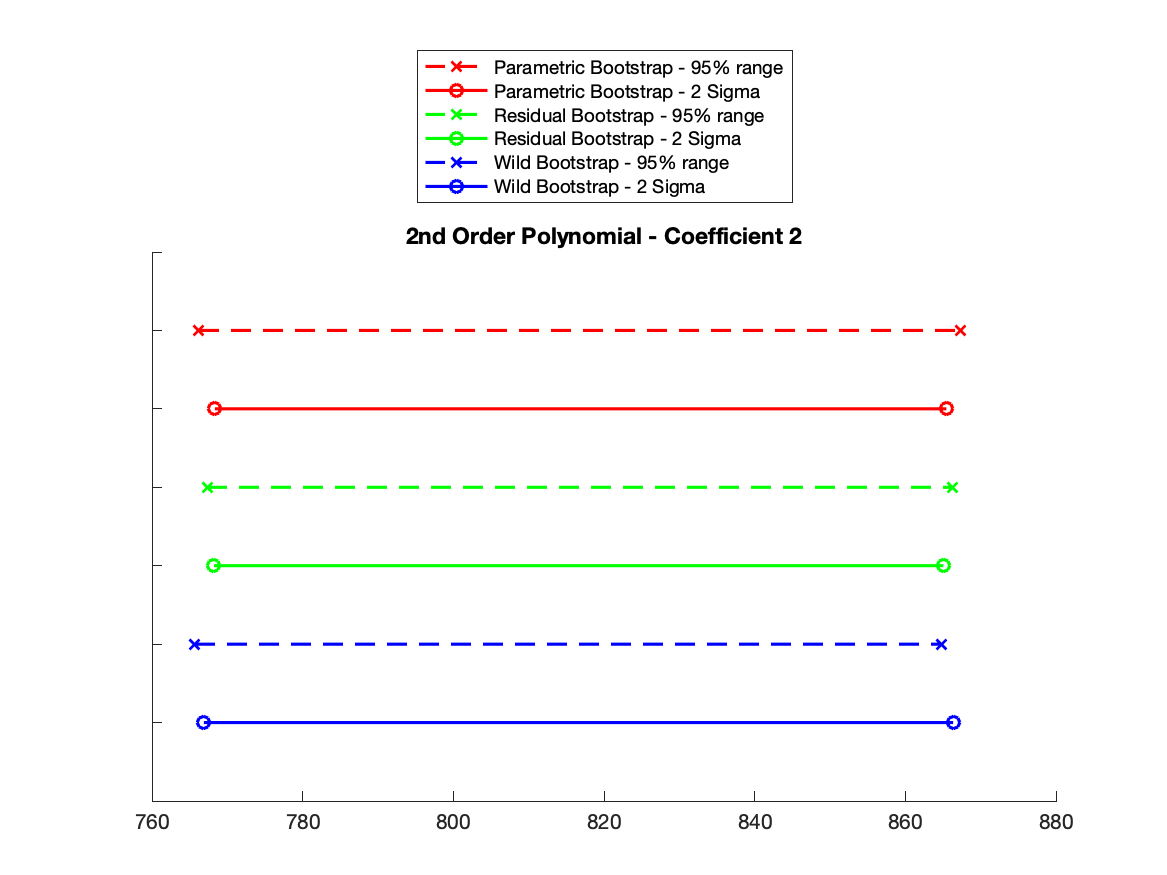
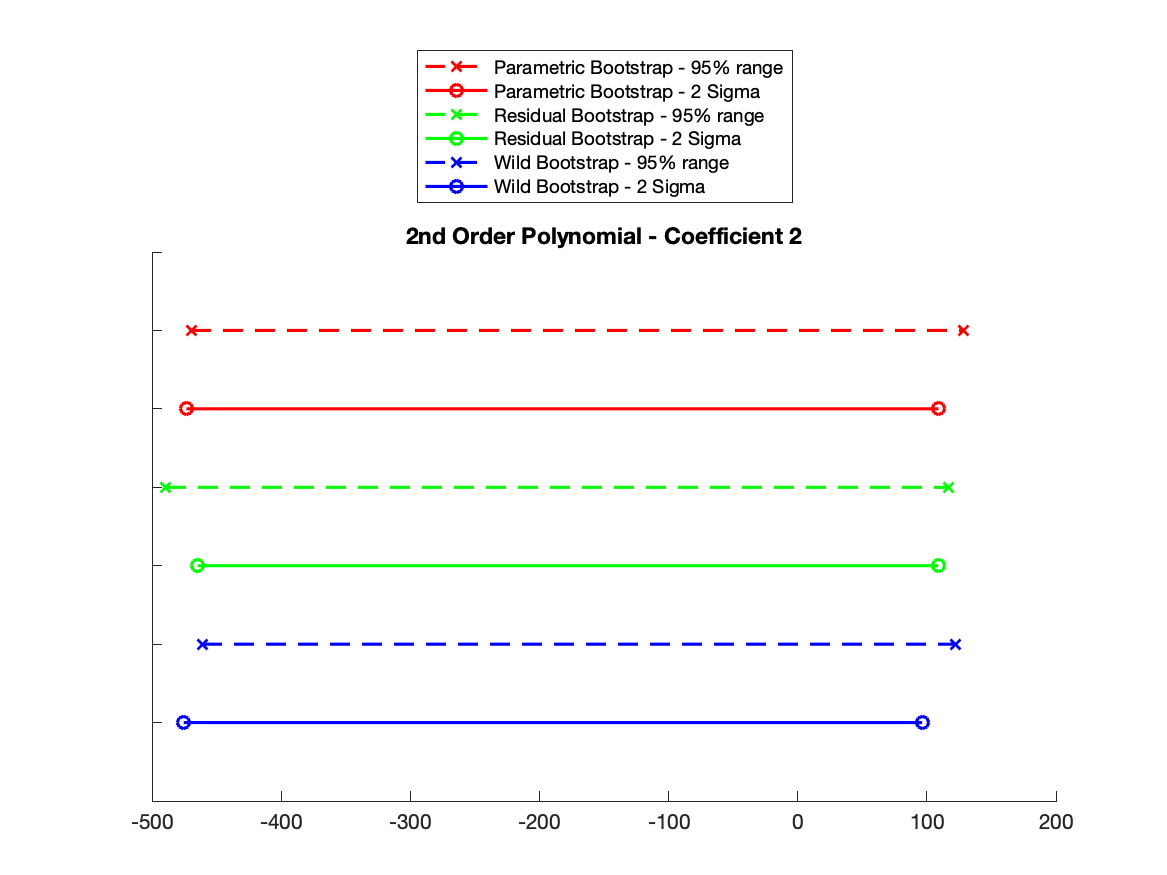
fixing some bugs

diff --git a/compareBootstraps.m b/compareBootstraps.m
@@ -3,6 +3,7 @@ function compareBootstraps(twoSigma,twoSigma_v2,twoSigma_v3,conf95,conf95_v2,con
 if grouped==false
     len = size(twoSigma);
     for i=1:len(1)
+        clf;
         h = figure;
         if i < 3
             newTitle = sprintf('Linear - Coefficient %i',i);
@@ -17,19 +18,19 @@ if grouped==false
 
         maxY = ylim;
         hold on
-        plot(twoSigma(1,:), 1.25*[maxY(2), maxY(2)], 'r--x','LineWidth',1.5);
+        plot(twoSigma(i,:), 1.25*[maxY(2), maxY(2)], 'r--x','LineWidth',1.5);
         hold on
-        plot(conf95(1,:), 1.2*[maxY(2), maxY(2)],'r-o','LineWidth',1.5);
+        plot(conf95(i,:), 1.2*[maxY(2), maxY(2)],'r-o','LineWidth',1.5);
 
         hold on
-        plot(twoSigma_v2(1,:), 1.15*[maxY(2), maxY(2)], 'g--x','LineWidth',1.5);
+        plot(twoSigma_v2(i,:), 1.15*[maxY(2), maxY(2)], 'g--x','LineWidth',1.5);
         hold on
-        plot(conf95_v2(1,:), 1.1*[maxY(2), maxY(2)],'g-o','LineWidth',1.5);
+        plot(conf95_v2(i,:), 1.1*[maxY(2), maxY(2)],'g-o','LineWidth',1.5);
 
         hold on
-        plot(twoSigma_v3(1,:), 1.05*[maxY(2), maxY(2)], 'b--x','LineWidth',1.5);
+        plot(twoSigma_v3(i,:), 1.05*[maxY(2), maxY(2)], 'b--x','LineWidth',1.5);
         hold on
-        plot(conf95_v3(1,:), 1*[maxY(2), maxY(2)],'b-o','LineWidth',1.5);
+        plot(conf95_v3(i,:), 1*[maxY(2), maxY(2)],'b-o','LineWidth',1.5);
 
         set(gca,'YTickLabel',[])
         ylim([0.95,1.3]);
@@ -53,7 +54,7 @@ if grouped==false
 else
     % linear 
     figure;
-    subplot(1,2,1)
+    subplot(2,1,1)
     title('Linear - Coefficient 1');
     maxY = ylim;
     hold on
@@ -79,7 +80,7 @@ else
            'location','northoutside');
 
 
-    subplot(1,2,2)
+    subplot(2,1,2)
     title('Linear - Coefficient 2');
     maxY = ylim;
 

diff --git a/resp_code.m b/resp_code.m
@@ -308,10 +308,10 @@ hist(C1_boot_v1(:,1))
 title('Linear Model Coefficient 1');
 maxY = ylim;
 hold on
-plot(conf95(1,:), 1.05*[maxY(2), maxY(2)],'--o');
+plot(conf95(1,:), 1.05*[maxY(2), maxY(2)],'r--x','LineWidth',1.5);
 hold on
-plot(twoSigma(1,:), 1.1*[maxY(2), maxY(2)], '--o');
-legend('p(x|A)','95% range','2 Sigma','location','west');
+plot(twoSigma(1,:), 1.1*[maxY(2), maxY(2)], 'b-o','LineWidth',1.5);
+legend('p(x|A)','95% range','2 Sigma','location','west','LineWidth',1.5);
 
 
 
@@ -369,9 +369,9 @@ hist(C1_boot_v2(:,1))
 title('2nd Order Polynomial Model Coefficient 1');
 maxY = ylim;
 hold on
-plot(conf95_v2(1,:), 1.05*[maxY(2), maxY(2)],'--o');
+plot(conf95_v2(1,:), 1.05*[maxY(2), maxY(2)],'r--x','LineWidth',1.5);
 hold on
-plot(twoSigma_v2(1,:), 1.1*[maxY(2), maxY(2)], '--o');
+plot(twoSigma_v2(1,:), 1.1*[maxY(2), maxY(2)], 'b-o','LineWidth',1.5);
 legend('p(x|A)','95% range','2 Sigma','location','west');
 
 
@@ -429,9 +429,9 @@ hist(C1_boot_v3(:,1))
 title('3rd Order Polynomial Model Coefficient 1');
 maxY = ylim;
 hold on
-plot(conf95_v3(1,:), 1.05*[maxY(2), maxY(2)],'--o');
+plot(conf95_v3(1,:), 1.05*[maxY(2), maxY(2)],'r--x','LineWidth',1.5);
 hold on
-plot(twoSigma_v3(1,:), 1.1*[maxY(2), maxY(2)], '--o');
+plot(twoSigma_v3(1,:), 1.1*[maxY(2), maxY(2)], 'b-o','LineWidth',1.5);
 legend('p(x|A)','95% range','2 Sigma','location','west');
 
 %% Comparing Bootstraps
